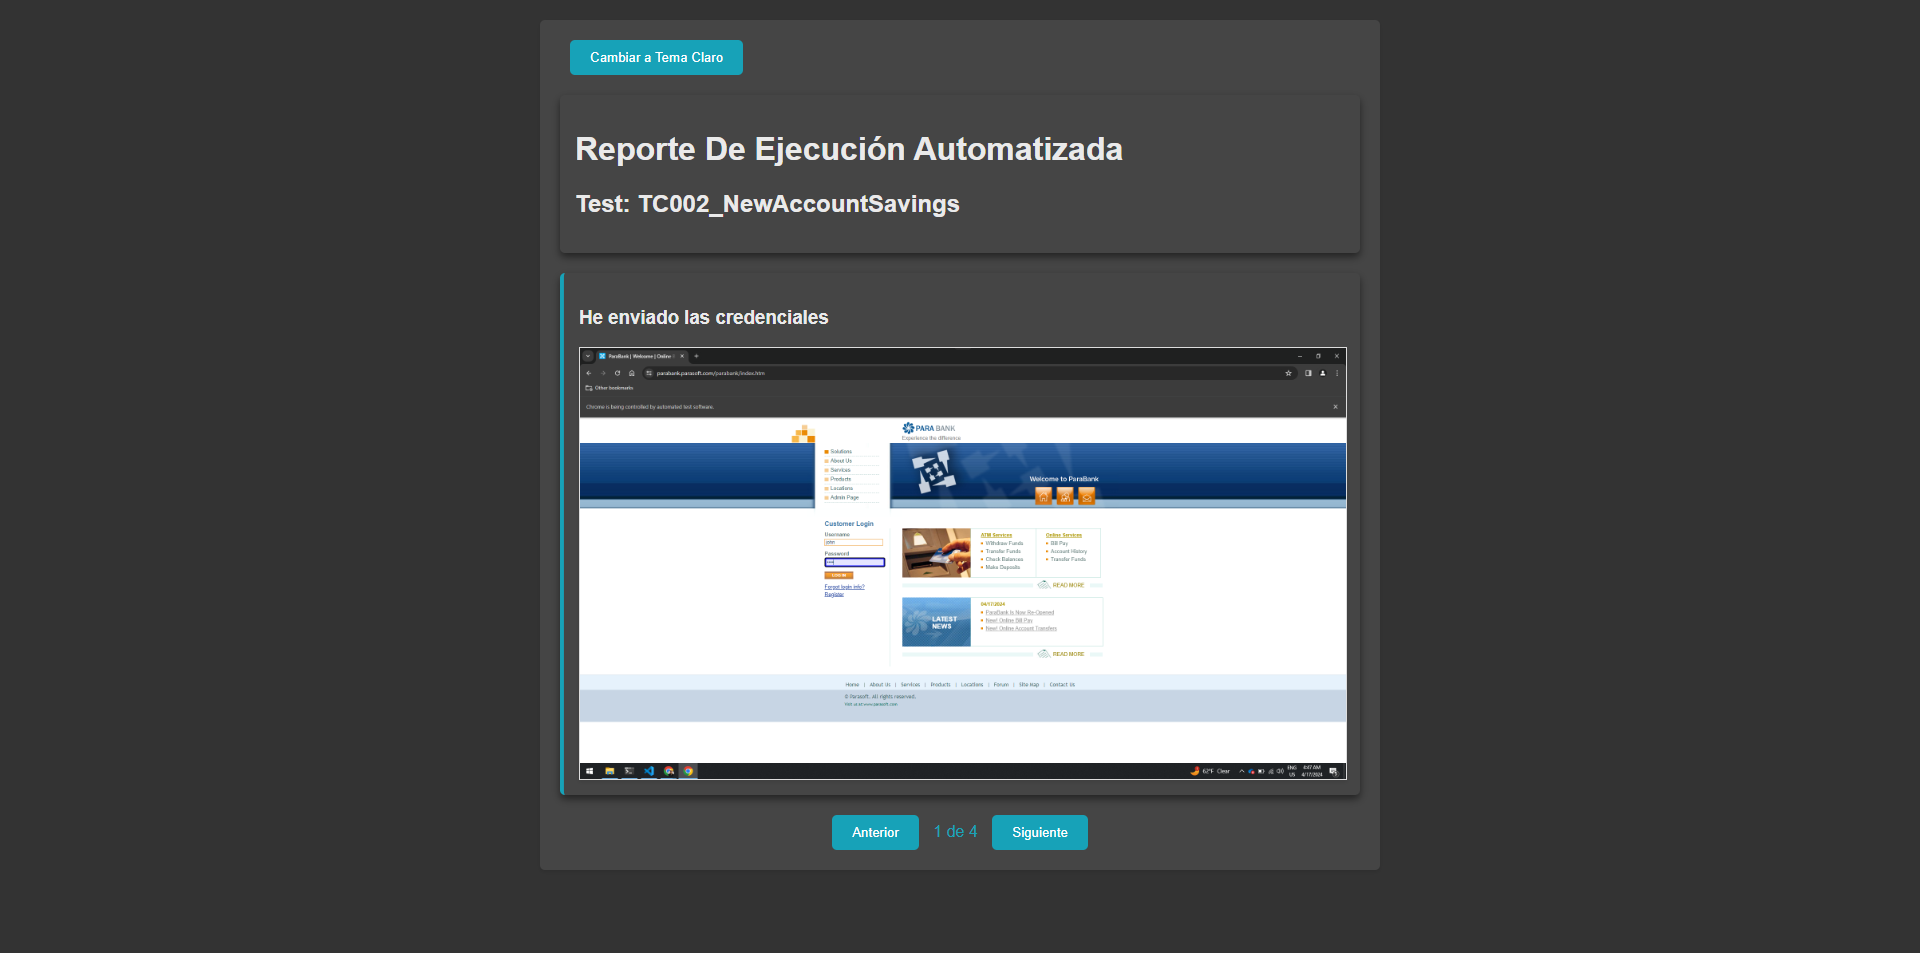
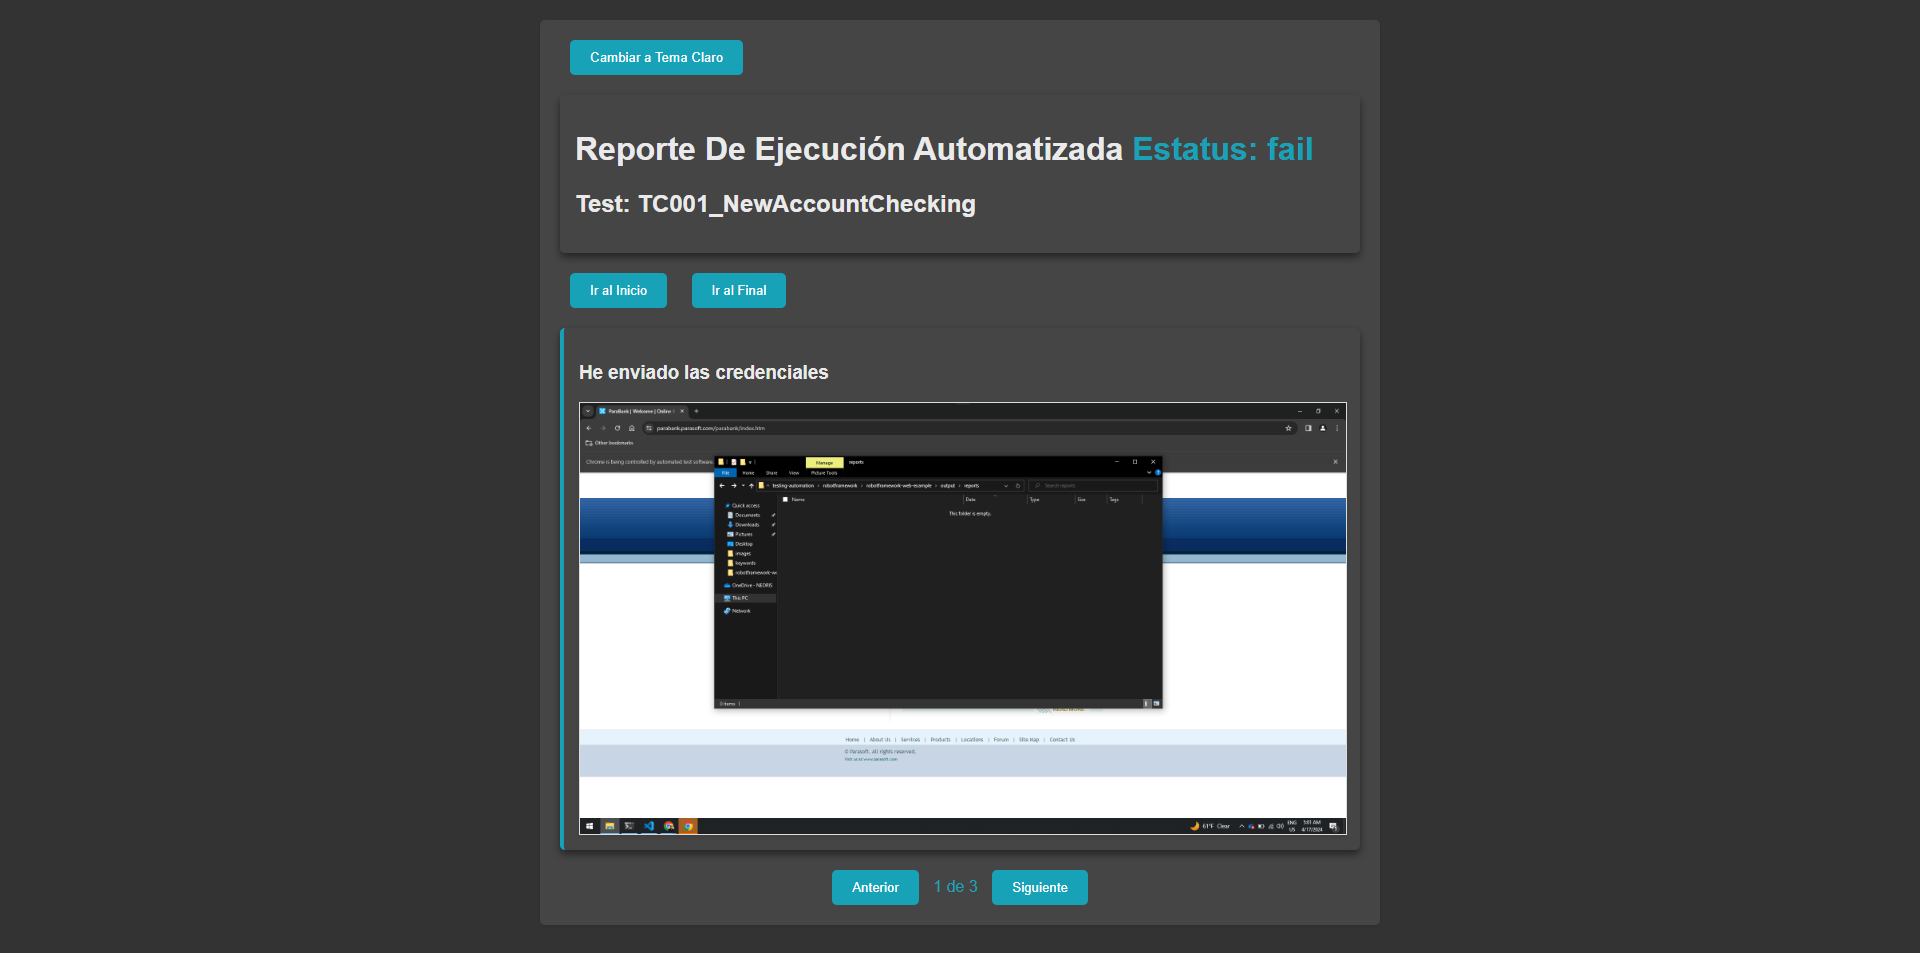
implementacion de ir al inicio/final en el reporte horizontal y adicion de estatus

Changed region(s): [[0.2812, 0.2739, 0.7188, 0.9738], [0.5938, 0.1522, 0.6875, 0.1826], [0.4375, 0.1826, 0.5, 0.2434]]

diff --git a/assets/static/templates/step_horizontal_slider_report.html b/assets/static/templates/step_horizontal_slider_report.html
@@ -44,8 +44,8 @@
             border-radius: 5px;
             box-shadow: 0 2px 4px rgba(0,0,0,0.1);
         }
-        .theme-switcher {
-            margin-bottom: 20px; /* Espacio entre el botón y la caja de información */
+        .theme-switcher, .start-end-buttons {
+            margin-bottom: 20px; /* Espacio entre botones y contenido */
         }
         .test-info {
             background-color: var(--container-background-color);
@@ -95,14 +95,21 @@
             margin-top: 10px;
             color: var(--info-color);
         }
+        .status-text {
+            color: var(--info-color); /* Color inicial, cambiar según el estado */
+        }
     </style>
 </head>
 <body data-theme="dark">
 <div class="container">
     <button class="theme-switcher" onclick="switchTheme()">Cambiar a Tema Claro</button>
     <div class="test-info">
-        <h1>Reporte De Ejecución Automatizada</h1>
+        <h1>Reporte De Ejecución Automatizada <span class="status-text-{{ status }}" id="status-text">Estatus: {{ status }}</span></h1>
         <h2>Test: {{ testname }}</h2>
+    </div>
+    <div class="start-end-buttons">
+        <button onclick="goToStart()">Ir al Inicio</button>
+        <button onclick="goToEnd()">Ir al Final</button>
     </div>
     {% for step_data in steps_data %}
         <div class="step {{ step_data.step_level }}" id="step-{{ loop.index }}">
@@ -126,6 +133,7 @@
         if (newStep) newStep.style.display = 'block';
         currentStep = index;
         updateStepCounter();
+        updateStatusColor(newStep.classList.contains('fail') ? 'fail' : 'pass'); // Simplificado para ejemplo
     }
     function changeStep(direction) {
         let newIndex = currentStep + direction;
@@ -133,9 +141,19 @@
         if (newIndex >= totalSteps) newIndex = 0;
         showStep(newIndex);
     }
+    function goToStart() {
+        showStep(0);
+    }
+    function goToEnd() {
+        showStep(totalSteps - 1);
+    }
     function updateStepCounter() {
         const counterElement = document.getElementById('step-counter');
         counterElement.textContent = (currentStep + 1) + ' de ' + totalSteps;
+    }
+    function updateStatusColor(status) {
+        const statusText = document.getElementById('status-text');
+        statusText.style.color = getComputedStyle(document.documentElement).getPropertyValue('--' + status + '-color');
     }
     function switchTheme() {
         const body = document.body;
@@ -150,6 +168,7 @@
     }
     window.onload = function() {
         showStep(0); // Mostrar el primer paso al cargar
+        updateStatusColor('info'); // Inicializar color de estado, cambiar según necesidad
     };
 </script>
 </body>

diff --git a/config/execution/HtmlTestReportStepHorizontalSlider.py b/config/execution/HtmlTestReportStepHorizontalSlider.py
@@ -66,7 +66,7 @@ class HtmlTestReportStepHorizontalSlider:
         if not os.path.exists(path_to_report):
             os.mkdir(path_to_report)
 
-        path_to_report = os.path.join(path_to_report, "report_step_slider")
+        path_to_report = os.path.join(path_to_report, "report_horizontal_step_slider")
         os.mkdir(path_to_report)
 
         env = Environment(loader=FileSystemLoader(
@@ -74,7 +74,7 @@ class HtmlTestReportStepHorizontalSlider:
             )
         )
         template = env.get_template('step_horizontal_slider_report.html')
-        output = template.render(testname=self.current_test["name"], steps_data=self.keywords_config + self.keywords_data)
+        output = template.render(testname=self.current_test["name"], steps_data=self.keywords_config + self.keywords_data, status=attrs['status'].lower())
         with open(os.path.join(path_to_report, self.current_test["name"] + ".html"), "w", encoding="utf-8") as f:
             f.write(output)
 

diff --git a/readme.md b/readme.md
@@ -121,11 +121,12 @@ Robot Framework ya ofrece reportes de ejecución de test cases, pero no ofrece u
 - El reporte se genera en la carpeta ./base/output/reports/
 - Es posible desde no generar el reporte de todos los listeners.
 
-Hay 4 listeners que podremos usar para generar reportes de los pasos de ejecución de un test case:
+Hay 5 listeners que podremos usar para generar reportes de los pasos de ejecución de un test case:
 - **HtmlTestReportStepLog.py:** Genera un reporte de los pasos de ejecución de un test case en un archivo html.
 - **HtmlTestReportStepSlider.py:** Genera un reporte de los pasos de ejecución de un test case en un archivo html con imágenes.
 - **PdfTestReportStepLog.py:** Genera un reporte de los pasos de ejecución de un test case en un archivo pdf.
 - **PdfTestReportStepSlider.py:** Genera un reporte de los pasos de ejecución de un test case en un archivo pdf con imágenes.
+- **HtmlTestReportStepHorizontalSlider.py:** Genera un reporte de los pasos de ejecución de un test case en un archivo html con imágenes en horizontal.
 
 Para utilizar estos listeners, se debe especificar como listener al ejecutar las pruebas:
 
@@ -143,6 +144,7 @@ Las carpetas que crea cada listener son:
 - **HtmlTestReportStepSlider.py:** output/reports/report_step_slider/
 - **PdfTestReportStepLog.py:** output/reports/report_pdf_log/
 - **PdfTestReportStepSlider.py:** output/reports/report_pdf_slider/
+- **HtmlTestReportStepHorizontalSlider.py:** output/reports/report_horizontal_step_slider/
 
 Pese a que hay 4 listeners, se pueden clasificar en 2 tipos: con imágenes y sin imágenes. Los listeners que contienen la palabra "Slider" generan reportes con imágenes, mientras que los otros generan reportes sin imágenes.
 
